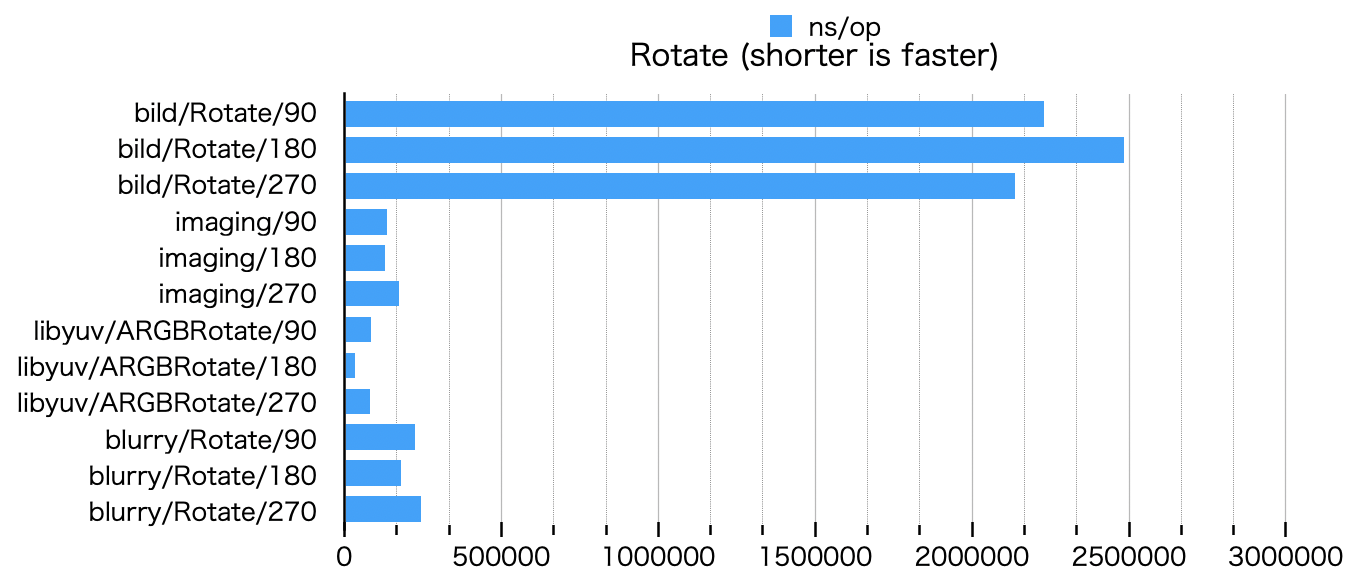
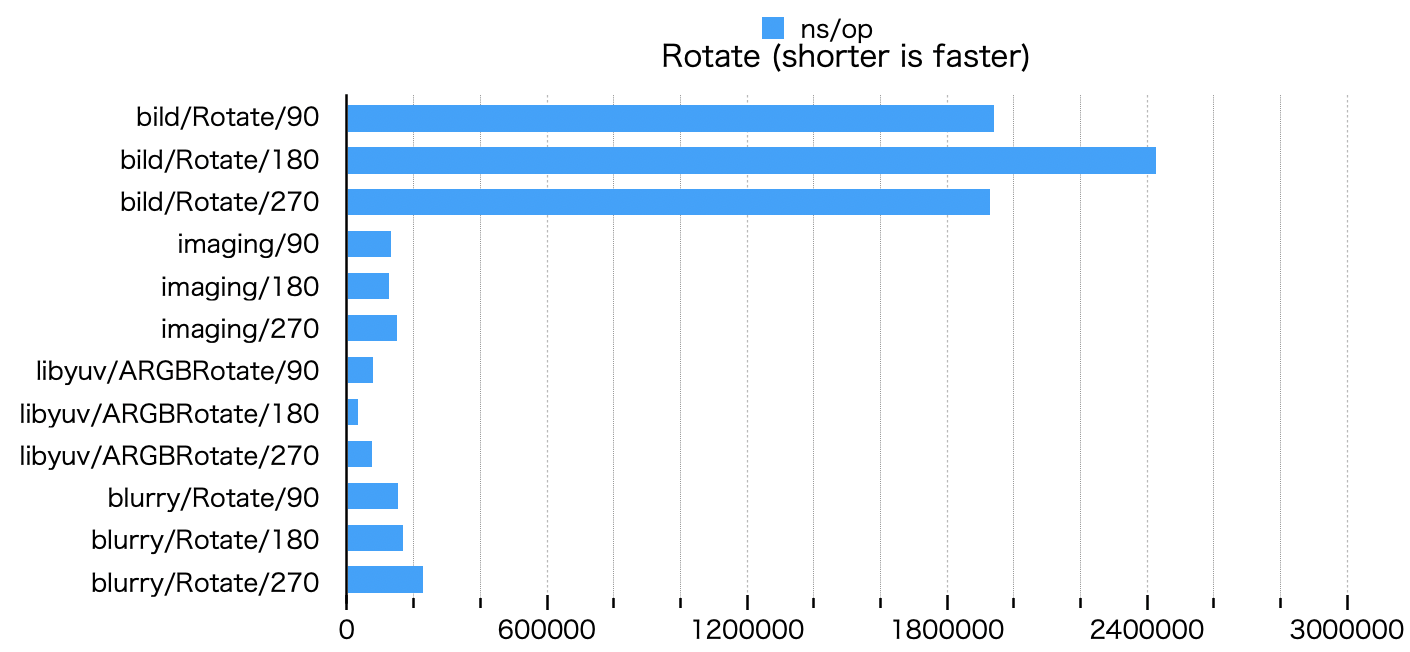
update benchmark

diff --git a/_benchmark/scale_test.go b/_benchmark/scale_test.go
@@ -9,22 +9,22 @@ import (
 )
 
 func BenchmarkScale(b *testing.B) {
-	b.Run("transform.Resize/NearestNeighbor", func(tb *testing.B) {
+	b.Run("bild/Resize/NearestNeighbor", func(tb *testing.B) {
 		for i := 0; i < tb.N; i += 1 {
 			_ = transform.Resize(testImg, 128, 96, transform.NearestNeighbor)
 		}
 	})
-	b.Run("transform.Resize/Box", func(tb *testing.B) {
+	b.Run("bild/Resize/Box", func(tb *testing.B) {
 		for i := 0; i < tb.N; i += 1 {
 			_ = transform.Resize(testImg, 128, 96, transform.Box)
 		}
 	})
-	b.Run("transform.Resize/Linear", func(tb *testing.B) {
+	b.Run("bild/Resize/Linear", func(tb *testing.B) {
 		for i := 0; i < tb.N; i += 1 {
 			_ = transform.Resize(testImg, 128, 96, transform.Linear)
 		}
 	})
-	b.Run("transform.Resize/Gaussian", func(tb *testing.B) {
+	b.Run("bild/Resize/Gaussian", func(tb *testing.B) {
 		for i := 0; i < tb.N; i += 1 {
 			_ = transform.Resize(testImg, 128, 96, transform.Gaussian)
 		}

diff --git a/_benchmark/README.md b/_benchmark/README.md
@@ -17,23 +17,23 @@ pkg: github.com/octu0/blurry/benchmark
 cpu: Intel(R) Core(TM) i7-8569U CPU @ 2.80GHz
 BenchmarkBlur
 BenchmarkBlur/bild/blur/Box
-BenchmarkBlur/bild/blur/Box-8         	     145	   8279131 ns/op	  640336 B/op	      11 allocs/op
+BenchmarkBlur/bild/blur/Box-8         	     150	   7901781 ns/op	  640405 B/op	      11 allocs/op
 BenchmarkBlur/bild/blur/Gaussian
-BenchmarkBlur/bild/blur/Gaussian-8    	     325	   3742126 ns/op	 1262508 B/op	      21 allocs/op
+BenchmarkBlur/bild/blur/Gaussian-8    	     331	   3751497 ns/op	 1262480 B/op	      21 allocs/op
 BenchmarkBlur/imaging/Blur
-BenchmarkBlur/imaging/Blur-8          	     762	   1551078 ns/op	  793695 B/op	      45 allocs/op
+BenchmarkBlur/imaging/Blur-8          	     782	   1520597 ns/op	  793694 B/op	      45 allocs/op
 BenchmarkBlur/stackblur-go
-BenchmarkBlur/stackblur-go-8          	     236	   5098631 ns/op	  925933 B/op	  153609 allocs/op
+BenchmarkBlur/stackblur-go-8          	     244	   4963000 ns/op	  925937 B/op	  153609 allocs/op
 BenchmarkBlur/libyuv/ARGBBlur
-BenchmarkBlur/libyuv/ARGBBlur-8       	    1783	    668378 ns/op	10182723 B/op	       3 allocs/op
+BenchmarkBlur/libyuv/ARGBBlur-8       	    1861	    635287 ns/op	10182724 B/op	       3 allocs/op
 BenchmarkBlur/blurry/Boxblur
-BenchmarkBlur/blurry/Boxblur-8        	    5790	    220296 ns/op	     141 B/op	       2 allocs/op
+BenchmarkBlur/blurry/Boxblur-8        	    9319	    134460 ns/op	      88 B/op	       2 allocs/op
 BenchmarkBlur/blurry/Gaussianblur
-BenchmarkBlur/blurry/Gaussianblur-8   	    4273	    263072 ns/op	     161 B/op	       2 allocs/op
+BenchmarkBlur/blurry/Gaussianblur-8   	    2943	    350995 ns/op	     194 B/op	       2 allocs/op
 BenchmarkBlur/blurry/Boxblur/D
-BenchmarkBlur/blurry/Boxblur/D-8      	    5108	    235602 ns/op	  311361 B/op	       2 allocs/op
+BenchmarkBlur/blurry/Boxblur/D-8      	    7401	    179539 ns/op	  311361 B/op	       2 allocs/op
 BenchmarkBlur/blurry/Gaussianblur/D
-BenchmarkBlur/blurry/Gaussianblur/D-8 	    4250	    284221 ns/op	  311361 B/op	       2 allocs/op
+BenchmarkBlur/blurry/Gaussianblur/D-8 	    2733	    383585 ns/op	  311361 B/op	       2 allocs/op
 ```
 
 ## Blend
@@ -47,23 +47,23 @@ pkg: github.com/octu0/blurry/benchmark
 cpu: Intel(R) Core(TM) i7-8569U CPU @ 2.80GHz
 BenchmarkBlend
 BenchmarkBlend/bild/Blend/Normal
-BenchmarkBlend/bild/Blend/Normal-8         	    1689	    691521 ns/op	  311466 B/op	       4 allocs/op
+BenchmarkBlend/bild/Blend/Normal-8         	    1912	    703843 ns/op	  311459 B/op	       4 allocs/op
 BenchmarkBlend/bild/Blend/Add
-BenchmarkBlend/bild/Blend/Add-8            	    1664	    718701 ns/op	  311428 B/op	       4 allocs/op
+BenchmarkBlend/bild/Blend/Add-8            	    1557	    702843 ns/op	  311425 B/op	       4 allocs/op
 BenchmarkBlend/bild/Blend/Subtract
-BenchmarkBlend/bild/Blend/Subtract-8       	    1561	    769815 ns/op	  311426 B/op	       4 allocs/op
+BenchmarkBlend/bild/Blend/Subtract-8       	    1683	    704056 ns/op	  311425 B/op	       4 allocs/op
 BenchmarkBlend/imaging/Paste
-BenchmarkBlend/imaging/Paste-8             	    6140	    192764 ns/op	  315750 B/op	      10 allocs/op
+BenchmarkBlend/imaging/Paste-8             	    6037	    201850 ns/op	  315751 B/op	      10 allocs/op
 BenchmarkBlend/libyuv/ARGBAdd
-BenchmarkBlend/libyuv/ARGBAdd-8            	   28186	     36565 ns/op	  311360 B/op	       2 allocs/op
+BenchmarkBlend/libyuv/ARGBAdd-8            	   30560	     36185 ns/op	  311360 B/op	       2 allocs/op
 BenchmarkBlend/libyuv/ARGBSubtract
-BenchmarkBlend/libyuv/ARGBSubtract-8       	   31562	     35271 ns/op	  311361 B/op	       2 allocs/op
+BenchmarkBlend/libyuv/ARGBSubtract-8       	   33194	     35365 ns/op	  311361 B/op	       2 allocs/op
 BenchmarkBlend/blurry/Blend/Normal
-BenchmarkBlend/blurry/Blend/Normal-8       	   10000	    118492 ns/op	     119 B/op	       2 allocs/op
+BenchmarkBlend/blurry/Blend/Normal-8       	   10000	    103113 ns/op	     119 B/op	       2 allocs/op
 BenchmarkBlend/blurry/Blend/Add
-BenchmarkBlend/blurry/Blend/Add-8          	   10000	    132242 ns/op	     119 B/op	       2 allocs/op
+BenchmarkBlend/blurry/Blend/Add-8          	   10000	    110562 ns/op	     119 B/op	       2 allocs/op
 BenchmarkBlend/blurry/Blend/Sub
-BenchmarkBlend/blurry/Blend/Sub-8          	    8953	    139870 ns/op	     122 B/op	       2 allocs/op
+BenchmarkBlend/blurry/Blend/Sub-8          	    9728	    122189 ns/op	     120 B/op	       2 allocs/op
 ```
 
 ## Contrast
@@ -86,6 +86,68 @@ BenchmarkContrast/blurry/Contrast
 BenchmarkContrast/blurry/Contrast-8       	    8150	    148220 ns/op	     126 B/op	       2 allocs/op
 BenchmarkContrast/blurry/Contrast/D
 BenchmarkContrast/blurry/Contrast/D-8     	    6895	    169469 ns/op	  311360 B/op	       2 allocs/op
+```
+
+## Convert
+
+![graph](testdata/convert_bench.png)
+
+```
+goos: darwin
+goarch: amd64
+pkg: github.com/octu0/blurry/benchmark
+cpu: Intel(R) Core(TM) i7-8569U CPU @ 2.80GHz
+BenchmarkConvert
+BenchmarkConvert/libyuv/RGBAtoARGB
+BenchmarkConvert/libyuv/RGBAtoARGB-8         	   41944	     28145 ns/op	  311361 B/op	       2 allocs/op
+BenchmarkConvert/libyuv/ARGBToRGBA
+BenchmarkConvert/libyuv/ARGBToRGBA-8         	   41197	     28643 ns/op	  311361 B/op	       2 allocs/op
+BenchmarkConvert/libyuv/ABGRToARGB
+BenchmarkConvert/libyuv/ABGRToARGB-8         	   41390	     28748 ns/op	  311361 B/op	       2 allocs/op
+BenchmarkConvert/libyuv/BGRAToARGB
+BenchmarkConvert/libyuv/BGRAToARGB-8         	   41130	     28707 ns/op	  311361 B/op	       2 allocs/op
+BenchmarkConvert/libyuv/I420ToARGB
+BenchmarkConvert/libyuv/I420ToARGB-8         	   32671	     36616 ns/op	  311361 B/op	       2 allocs/op
+BenchmarkConvert/libyuv/I444ToARGB
+BenchmarkConvert/libyuv/I444ToARGB-8         	   32624	     36163 ns/op	  311361 B/op	       2 allocs/op
+BenchmarkConvert/libyuv/RGBAToI420
+BenchmarkConvert/libyuv/RGBAToI420-8         	   42903	     27372 ns/op	  123008 B/op	       4 allocs/op
+BenchmarkConvert/libyuv/ARGBToI420
+BenchmarkConvert/libyuv/ARGBToI420-8         	   60031	     19509 ns/op	  123008 B/op	       4 allocs/op
+BenchmarkConvert/libyuv/ARGBToI444
+BenchmarkConvert/libyuv/ARGBToI444-8         	   29774	     39668 ns/op	  245888 B/op	       4 allocs/op
+BenchmarkConvert/blurry/ConvertFromARGB
+BenchmarkConvert/blurry/ConvertFromARGB-8    	    8446	    146548 ns/op	  311500 B/op	       3 allocs/op
+BenchmarkConvert/blurry/ConvertFromABGR
+BenchmarkConvert/blurry/ConvertFromABGR-8    	    8344	    146218 ns/op	  311500 B/op	       3 allocs/op
+BenchmarkConvert/blurry/ConvertFromBGRA
+BenchmarkConvert/blurry/ConvertFromBGRA-8    	    6608	    189616 ns/op	  311515 B/op	       3 allocs/op
+BenchmarkConvert/blurry/ConvertFromYUV420
+BenchmarkConvert/blurry/ConvertFromYUV420-8  	    5008	    225420 ns/op	  311532 B/op	       3 allocs/op
+BenchmarkConvert/blurry/ConvertFromYUV444
+BenchmarkConvert/blurry/ConvertFromYUV444-8  	    6094	    195877 ns/op	  311520 B/op	       3 allocs/op
+BenchmarkConvert/blurry/ConvertToYUV444
+BenchmarkConvert/blurry/ConvertToYUV444-8    	    6105	    195209 ns/op	  237815 B/op	       3 allocs/op
+```
+
+## Crop
+
+![graph](testdata/crop_bench.png)
+
+```
+goos: darwin
+goarch: amd64
+pkg: github.com/octu0/blurry/benchmark
+cpu: Intel(R) Core(TM) i7-8569U CPU @ 2.80GHz
+BenchmarkCrop
+BenchmarkCrop/bild/Crop
+BenchmarkCrop/bild/Crop-8         	  536024	      2242 ns/op	   16512 B/op	       3 allocs/op
+BenchmarkCrop/imaging/Crop
+BenchmarkCrop/imaging/Crop-8      	   72818	     16218 ns/op	   17104 B/op	       6 allocs/op
+BenchmarkCrop/libyuv/Crop
+BenchmarkCrop/libyuv/Crop-8       	   49740	     25516 ns/op	  311360 B/op	       2 allocs/op
+BenchmarkCrop/blurry/Crop
+BenchmarkCrop/blurry/Crop-8       	   65932	     19613 ns/op	   16478 B/op	       3 allocs/op
 ```
 
 ## Edge
@@ -173,29 +235,71 @@ pkg: github.com/octu0/blurry/benchmark
 cpu: Intel(R) Core(TM) i7-8569U CPU @ 2.80GHz
 BenchmarkRotate
 BenchmarkRotate/bild/Rotate/90
-BenchmarkRotate/bild/Rotate/90-8         	     582	   2230286 ns/op	 1237036 B/op	  115685 allocs/op
+BenchmarkRotate/bild/Rotate/90-8         	     634	   1941369 ns/op	 1237045 B/op	  115685 allocs/op
 BenchmarkRotate/bild/Rotate/180
-BenchmarkRotate/bild/Rotate/180-8        	     493	   2484821 ns/op	 1540310 B/op	  153605 allocs/op
+BenchmarkRotate/bild/Rotate/180-8        	     529	   2426364 ns/op	 1540316 B/op	  153605 allocs/op
 BenchmarkRotate/bild/Rotate/270
-BenchmarkRotate/bild/Rotate/270-8        	     526	   2135527 ns/op	 1236930 B/op	  115685 allocs/op
+BenchmarkRotate/bild/Rotate/270-8        	     531	   1927780 ns/op	 1236940 B/op	  115685 allocs/op
 BenchmarkRotate/imaging/90
-BenchmarkRotate/imaging/90-8             	    7626	    136134 ns/op	  314182 B/op	       6 allocs/op
+BenchmarkRotate/imaging/90-8             	    7983	    133069 ns/op	  314181 B/op	       6 allocs/op
 BenchmarkRotate/imaging/180
-BenchmarkRotate/imaging/180-8            	    9528	    127362 ns/op	  313541 B/op	       6 allocs/op
+BenchmarkRotate/imaging/180-8            	    9532	    124640 ns/op	  313543 B/op	       6 allocs/op
 BenchmarkRotate/imaging/270
-BenchmarkRotate/imaging/270-8            	    7866	    174405 ns/op	  314164 B/op	       6 allocs/op
+BenchmarkRotate/imaging/270-8            	    8282	    150670 ns/op	  314163 B/op	       6 allocs/op
 BenchmarkRotate/libyuv/ARGBRotate/90
-BenchmarkRotate/libyuv/ARGBRotate/90-8   	   13598	     83944 ns/op	  311360 B/op	       2 allocs/op
+BenchmarkRotate/libyuv/ARGBRotate/90-8   	   14402	     77141 ns/op	  311360 B/op	       2 allocs/op
 BenchmarkRotate/libyuv/ARGBRotate/180
-BenchmarkRotate/libyuv/ARGBRotate/180-8  	   33970	     33696 ns/op	  311361 B/op	       2 allocs/op
+BenchmarkRotate/libyuv/ARGBRotate/180-8  	   34760	     33234 ns/op	  311361 B/op	       2 allocs/op
 BenchmarkRotate/libyuv/ARGBRotate/270
-BenchmarkRotate/libyuv/ARGBRotate/270-8  	   14926	     80698 ns/op	  311361 B/op	       2 allocs/op
+BenchmarkRotate/libyuv/ARGBRotate/270-8  	   15648	     76499 ns/op	  311361 B/op	       2 allocs/op
 BenchmarkRotate/blurry/Rotate/90
-BenchmarkRotate/blurry/Rotate/90-8       	    5629	    224277 ns/op	  311489 B/op	       3 allocs/op
+BenchmarkRotate/blurry/Rotate/90-8       	    8181	    152166 ns/op	  311515 B/op	       3 allocs/op
 BenchmarkRotate/blurry/Rotate/180
-BenchmarkRotate/blurry/Rotate/180-8      	    7006	    178531 ns/op	  311489 B/op	       3 allocs/op
+BenchmarkRotate/blurry/Rotate/180-8      	    7290	    166957 ns/op	  311515 B/op	       3 allocs/op
 BenchmarkRotate/blurry/Rotate/270
-BenchmarkRotate/blurry/Rotate/270-8      	    5060	    244755 ns/op	  311489 B/op	       3 allocs/op
+BenchmarkRotate/blurry/Rotate/270-8      	    5473	    227141 ns/op	  311515 B/op	       3 allocs/op
+```
+
+## Scale
+
+![graph](testdata/scale_bench.png)
+
+```
+goos: darwin
+goarch: amd64
+pkg: github.com/octu0/blurry/benchmark
+cpu: Intel(R) Core(TM) i7-8569U CPU @ 2.80GHz
+BenchmarkScale
+BenchmarkScale/bild/Resize/NearestNeighbor
+BenchmarkScale/bild/Resize/NearestNeighbor-8         	   19465	     61235 ns/op	   49216 B/op	       2 allocs/op
+BenchmarkScale/bild/Resize/Box
+BenchmarkScale/bild/Resize/Box-8                     	    2551	    474613 ns/op	  172386 B/op	       8 allocs/op
+BenchmarkScale/bild/Resize/Linear
+BenchmarkScale/bild/Resize/Linear-8                  	    1587	    745951 ns/op	  172384 B/op	       8 allocs/op
+BenchmarkScale/bild/Resize/Gaussian
+BenchmarkScale/bild/Resize/Gaussian-8                	     169	   7425608 ns/op	  172386 B/op	       8 allocs/op
+BenchmarkScale/imaging/Resize/NearestNeighbor
+BenchmarkScale/imaging/Resize/NearestNeighbor-8      	   24284	     56471 ns/op	   50241 B/op	       6 allocs/op
+BenchmarkScale/imaging/Resize/Box
+BenchmarkScale/imaging/Resize/Box-8                  	    3610	    338350 ns/op	  228097 B/op	      32 allocs/op
+BenchmarkScale/imaging/Resize/Linear
+BenchmarkScale/imaging/Resize/Linear-8               	    2815	    420133 ns/op	  236288 B/op	      32 allocs/op
+BenchmarkScale/imaging/Resize/Gaussian
+BenchmarkScale/imaging/Resize/Gaussian-8             	    1813	    647367 ns/op	  249858 B/op	      32 allocs/op
+BenchmarkScale/libyuv/Scale/None
+BenchmarkScale/libyuv/Scale/None-8                   	   93351	     11788 ns/op	   49216 B/op	       2 allocs/op
+BenchmarkScale/libyuv/Scale/Box
+BenchmarkScale/libyuv/Scale/Box-8                    	   65517	     17873 ns/op	   49216 B/op	       2 allocs/op
+BenchmarkScale/libyuv/Scale/Linear
+BenchmarkScale/libyuv/Scale/Linear-8                 	   79173	     14884 ns/op	   49216 B/op	       2 allocs/op
+BenchmarkScale/blurry/Scale/None
+BenchmarkScale/blurry/Scale/None-8                   	   40149	     29531 ns/op	   49259 B/op	       3 allocs/op
+BenchmarkScale/blurry/Scale/Box
+BenchmarkScale/blurry/Scale/Box-8                    	    6210	    187003 ns/op	   49260 B/op	       3 allocs/op
+BenchmarkScale/blurry/Scale/Linear
+BenchmarkScale/blurry/Scale/Linear-8                 	    6373	    187795 ns/op	   49260 B/op	       3 allocs/op
+BenchmarkScale/blurry/Scale/Gaussian
+BenchmarkScale/blurry/Scale/Gaussian-8               	    6038	    191143 ns/op	   49260 B/op	       3 allocs/op
 ```
 
 ## Sobel

diff --git a/README.md b/README.md
@@ -88,27 +88,27 @@ Also, the execution speed may be reduced by the overhead of multiple calls.
 ```
 goos: darwin
 goarch: amd64
-pkg: github.com/octu0/blurry
+pkg: github.com/octu0/blurry/benchmark
 cpu: Intel(R) Core(TM) i7-8569U CPU @ 2.80GHz
 BenchmarkBlur
 BenchmarkBlur/bild/blur/Box
-BenchmarkBlur/bild/blur/Box-8         	     145	   8279131 ns/op	  640336 B/op	      11 allocs/op
+BenchmarkBlur/bild/blur/Box-8         	     150	   7901781 ns/op	  640405 B/op	      11 allocs/op
 BenchmarkBlur/bild/blur/Gaussian
-BenchmarkBlur/bild/blur/Gaussian-8    	     325	   3742126 ns/op	 1262508 B/op	      21 allocs/op
+BenchmarkBlur/bild/blur/Gaussian-8    	     331	   3751497 ns/op	 1262480 B/op	      21 allocs/op
 BenchmarkBlur/imaging/Blur
-BenchmarkBlur/imaging/Blur-8          	     762	   1551078 ns/op	  793695 B/op	      45 allocs/op
+BenchmarkBlur/imaging/Blur-8          	     782	   1520597 ns/op	  793694 B/op	      45 allocs/op
 BenchmarkBlur/stackblur-go
-BenchmarkBlur/stackblur-go-8          	     236	   5098631 ns/op	  925933 B/op	  153609 allocs/op
+BenchmarkBlur/stackblur-go-8          	     244	   4963000 ns/op	  925937 B/op	  153609 allocs/op
 BenchmarkBlur/libyuv/ARGBBlur
-BenchmarkBlur/libyuv/ARGBBlur-8       	    1783	    668378 ns/op	10182723 B/op	       3 allocs/op
+BenchmarkBlur/libyuv/ARGBBlur-8       	    1861	    635287 ns/op	10182724 B/op	       3 allocs/op
 BenchmarkBlur/blurry/Boxblur
-BenchmarkBlur/blurry/Boxblur-8        	    5790	    220296 ns/op	     141 B/op	       2 allocs/op
+BenchmarkBlur/blurry/Boxblur-8        	    9319	    134460 ns/op	      88 B/op	       2 allocs/op
 BenchmarkBlur/blurry/Gaussianblur
-BenchmarkBlur/blurry/Gaussianblur-8   	    4273	    263072 ns/op	     161 B/op	       2 allocs/op
+BenchmarkBlur/blurry/Gaussianblur-8   	    2943	    350995 ns/op	     194 B/op	       2 allocs/op
 BenchmarkBlur/blurry/Boxblur/D
-BenchmarkBlur/blurry/Boxblur/D-8      	    5108	    235602 ns/op	  311361 B/op	       2 allocs/op
+BenchmarkBlur/blurry/Boxblur/D-8      	    7401	    179539 ns/op	  311361 B/op	       2 allocs/op
 BenchmarkBlur/blurry/Gaussianblur/D
-BenchmarkBlur/blurry/Gaussianblur/D-8 	    4250	    284221 ns/op	  311361 B/op	       2 allocs/op
+BenchmarkBlur/blurry/Gaussianblur/D-8 	    2733	    383585 ns/op	  311361 B/op	       2 allocs/op
 ```
 
 ### Edge
@@ -127,7 +127,7 @@ BenchmarkEdge/blurry/Edge
 BenchmarkEdge/blurry/Edge-8                	    7792	    140375 ns/op	  311488 B/op	       3 allocs/op
 ```
 
-## Rotate
+### Rotate
 
 ![graph](_benchmark/testdata/rotate_bench.png)
 
@@ -138,29 +138,29 @@ pkg: github.com/octu0/blurry/benchmark
 cpu: Intel(R) Core(TM) i7-8569U CPU @ 2.80GHz
 BenchmarkRotate
 BenchmarkRotate/bild/Rotate/90
-BenchmarkRotate/bild/Rotate/90-8         	     582	   2230286 ns/op	 1237036 B/op	  115685 allocs/op
+BenchmarkRotate/bild/Rotate/90-8         	     634	   1941369 ns/op	 1237045 B/op	  115685 allocs/op
 BenchmarkRotate/bild/Rotate/180
-BenchmarkRotate/bild/Rotate/180-8        	     493	   2484821 ns/op	 1540310 B/op	  153605 allocs/op
+BenchmarkRotate/bild/Rotate/180-8        	     529	   2426364 ns/op	 1540316 B/op	  153605 allocs/op
 BenchmarkRotate/bild/Rotate/270
-BenchmarkRotate/bild/Rotate/270-8        	     526	   2135527 ns/op	 1236930 B/op	  115685 allocs/op
+BenchmarkRotate/bild/Rotate/270-8        	     531	   1927780 ns/op	 1236940 B/op	  115685 allocs/op
 BenchmarkRotate/imaging/90
-BenchmarkRotate/imaging/90-8             	    7626	    136134 ns/op	  314182 B/op	       6 allocs/op
+BenchmarkRotate/imaging/90-8             	    7983	    133069 ns/op	  314181 B/op	       6 allocs/op
 BenchmarkRotate/imaging/180
-BenchmarkRotate/imaging/180-8            	    9528	    127362 ns/op	  313541 B/op	       6 allocs/op
+BenchmarkRotate/imaging/180-8            	    9532	    124640 ns/op	  313543 B/op	       6 allocs/op
 BenchmarkRotate/imaging/270
-BenchmarkRotate/imaging/270-8            	    7866	    174405 ns/op	  314164 B/op	       6 allocs/op
+BenchmarkRotate/imaging/270-8            	    8282	    150670 ns/op	  314163 B/op	       6 allocs/op
 BenchmarkRotate/libyuv/ARGBRotate/90
-BenchmarkRotate/libyuv/ARGBRotate/90-8   	   13598	     83944 ns/op	  311360 B/op	       2 allocs/op
+BenchmarkRotate/libyuv/ARGBRotate/90-8   	   14402	     77141 ns/op	  311360 B/op	       2 allocs/op
 BenchmarkRotate/libyuv/ARGBRotate/180
-BenchmarkRotate/libyuv/ARGBRotate/180-8  	   33970	     33696 ns/op	  311361 B/op	       2 allocs/op
+BenchmarkRotate/libyuv/ARGBRotate/180-8  	   34760	     33234 ns/op	  311361 B/op	       2 allocs/op
 BenchmarkRotate/libyuv/ARGBRotate/270
-BenchmarkRotate/libyuv/ARGBRotate/270-8  	   14926	     80698 ns/op	  311361 B/op	       2 allocs/op
+BenchmarkRotate/libyuv/ARGBRotate/270-8  	   15648	     76499 ns/op	  311361 B/op	       2 allocs/op
 BenchmarkRotate/blurry/Rotate/90
-BenchmarkRotate/blurry/Rotate/90-8       	    5629	    224277 ns/op	  311489 B/op	       3 allocs/op
+BenchmarkRotate/blurry/Rotate/90-8       	    8181	    152166 ns/op	  311515 B/op	       3 allocs/op
 BenchmarkRotate/blurry/Rotate/180
-BenchmarkRotate/blurry/Rotate/180-8      	    7006	    178531 ns/op	  311489 B/op	       3 allocs/op
+BenchmarkRotate/blurry/Rotate/180-8      	    7290	    166957 ns/op	  311515 B/op	       3 allocs/op
 BenchmarkRotate/blurry/Rotate/270
-BenchmarkRotate/blurry/Rotate/270-8      	    5060	    244755 ns/op	  311489 B/op	       3 allocs/op
+BenchmarkRotate/blurry/Rotate/270-8      	    5473	    227141 ns/op	  311515 B/op	       3 allocs/op
 ```
 
 ### Sobel
